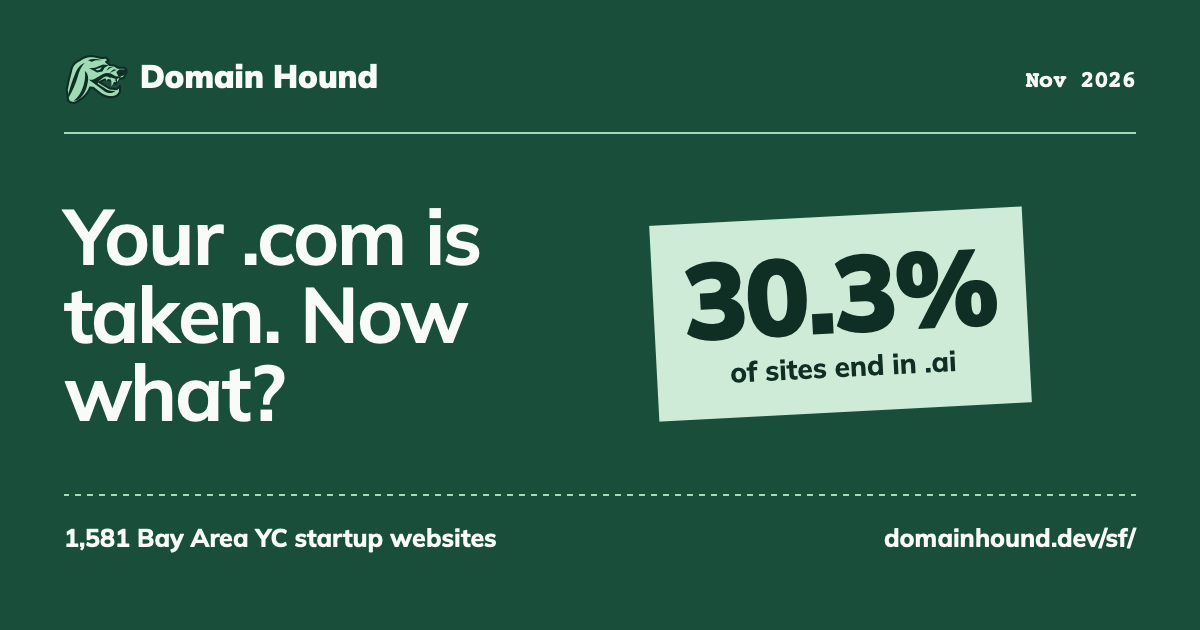
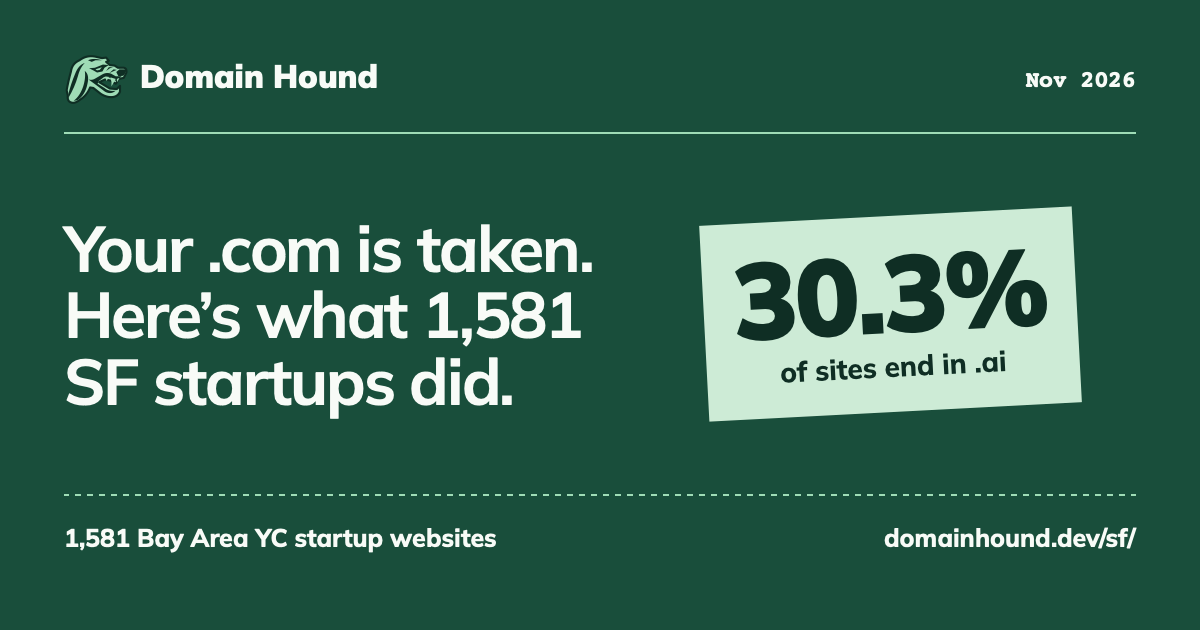
fix: use exact-name prices on the SF startup page

Changed region(s): [[0.0308, 0.3317, 0.4933, 0.6937], [0.5242, 0.3016, 0.925, 0.6937]]

diff --git a/sf/index.html b/sf/index.html
@@ -3,11 +3,11 @@
 <head>
   <meta charset="utf-8">
   <meta name="viewport" content="width=device-width, initial-scale=1">
-  <title>Your .com is taken. Now what? | Domain Hound</title>
+  <title>Your .com is taken. Here’s what 1,581 SF startups did.</title>
   <meta name="description" content="30.3% of 1,581 Bay Area YC startup websites use .ai.">
   <meta property="og:type" content="article">
   <meta property="og:site_name" content="Domain Hound">
-  <meta property="og:title" content="Your .com is taken. Now what?">
+  <meta property="og:title" content="Your .com is taken. Here’s what 1,581 SF startups did.">
   <meta property="og:description" content="30.3% of 1,581 Bay Area YC startup websites use .ai.">
   <meta property="og:image" content="https://domainhound.dev/sf/share.png">
   <meta property="og:image:width" content="1200">
@@ -33,8 +33,7 @@
 <main>
   <section class="intro"><div class="frame spread">
     <div><p class="eyebrow">San Francisco Bay Area &nbsp;/&nbsp; 2023 to 2026</p>
-    <h1>Your .com is taken.<br>Now what?</h1>
-    <p class="lede">See what 1,581 Y Combinator startups picked.</p>
+    <h1>Your .com is taken.<br>Here’s what 1,581 SF startups did.</h1>
     <div id="check"><form class="name-check" hidden autocomplete="off">
     <label for="candidate">Name or domain <span>· Free check</span></label>
     <div class="field"><input id="candidate" type="text" maxlength="253" required placeholder="Your startup name" autocapitalize="none" spellcheck="false">
@@ -49,7 +48,7 @@
   </div></section>
   <section class="chart-band"><div class="frame">
     <h2>What did startups pick?</h2>
-    <p class="deck">Each bar is one YC batch. Pick one to see its endings.</p>
+    <p class="deck">Each bar is one Y Combinator batch. Pick one to see its endings.</p>
     <div class="legend"><span><i class="com"></i>.com</span><span><i class="ai"></i>.ai</span><span><i class="rest"></i>Other endings</span></div>
     <div class="plot">
       <div class="axis" aria-hidden="true"><span>100%</span><span>50%</span><span>0%</span></div>
@@ -112,34 +111,18 @@
     </details>
     <p class="chart-note">.com was the most common ending overall. Just 1 of 1,581 sites used .si, shown under “Other endings”.</p>
   </div></section>
-  <section class="facts-band pick-band"><div class="frame">
-    <h2>Which ending should you pick?</h2>
-    <p class="deck">We priced the same 3 names with each ending. These shops had the lowest bill over three years.</p>
+  <section class="facts-band pick-band" aria-labelledby="pick-title"><div class="frame">
+    <h2 id="pick-title">Which ending should you pick?</h2>
     <div class="cards pick-cards"><article><h3>.com</h3>
     <p>733 of 1,581 sites · 46.36%</p>
-    <dl><div><dt>First year</dt><dd>$9.68</dd></div>
-    <div><dt>Yearly renewal</dt><dd>$10.88</dd></div></dl>
-    <p class="shop">Spaceship</p>
-    <p>Get your exact name here if it’s available at the standard price.</p></article>
+    <p>Pick it if you can get your exact name.</p></article>
 <article><h3>.ai</h3>
     <p>479 of 1,581 sites · 30.3%</p>
-    <dl><div><dt>First year</dt><dd>$79.98</dd></div>
-    <div><dt>Yearly renewal</dt><dd>$79.98</dd></div></dl>
-    <p class="shop">Spaceship · Pay for 2 years at a time. $159.96 upfront.</p>
     <p>If you build AI, this ending says so before anyone clicks.</p></article>
 <article><h3>.si</h3>
     <p>1 of 1,581 sites · 0.06%</p>
-    <dl><div><dt>First year</dt><dd>$11.29</dd></div>
-    <div><dt>Yearly renewal</dt><dd>$11.29</dd></div></dl>
-    <p class="shop">Dynadot</p>
-    <p>Keep the name and a small renewal bill if you’re happy to spell out the ending.</p></article></div>
-    <p class="price-date">USD before tax · Domain Hound · November 27, 2026</p>
-    <p class="pick-rule"><strong>Start with your exact .com.</strong> If it’s taken, pick .ai for an AI business or .si to keep the name for less. Want the .com? Try adding a word.</p>
-    <p class="chart-note">To buy a taken .com, you deal with its owner. Prices vary.</p>
-    <details><summary>Where the prices come from</summary>
-      <p>Domain Hound checked 3 available names per ending on November 27, 2026. All 3 names got the same list price at each shop. We compared the payments due over three years, including renewals.</p>
-      <p><a href="https://www.spaceship.com/domains/gtld/com/">.com at Spaceship</a> · <a href="https://www.spaceship.com/domains/cctld/ai/">.ai at Spaceship</a> · <a href="https://www.dynadot.com/domain/prices?currency=usd">.si at Dynadot</a></p>
-    </details>
+    <p>Try this less familiar ending to keep your exact name.</p></article></div>
+    <p class="pick-rule">Price depends on your exact name. <a href="#check-yours">Check yours below.</a></p>
   </div></section>
   <div class="chart-band trend-band"><div class="frame">
     <section class="ai-trend" aria-labelledby="ai-trend-title">
@@ -495,7 +478,7 @@
     </details>
     <div class="foot-links"><a href="/data/sf/endings.json" download>Download the counts (JSON)</a><button id="share" hidden>Share this page</button><span id="share-status" role="status"></span></div>
   </div></section>
-  <section class="check-band"><div class="frame">
+  <section class="check-band" id="check-yours"><div class="frame">
     <h2>Which ending can you get?</h2>
     <form class="name-check" hidden autocomplete="off">
     <label for="closing-candidate">Name or domain <span>· Free check</span></label>

diff --git a/sf/page.css b/sf/page.css
@@ -10,7 +10,7 @@ header, .intro, .check-band { background: var(--forest); color: var(--paper); }
 .eyebrow { color: var(--mint); }
 h1 { font-size: clamp(2.6rem, 6.2vw, 5.55rem); max-width: none; font-weight: 850; line-height: .94; margin: .19em 0 .22em; letter-spacing: -.035em; text-wrap: initial; }
 h2 { font-size: clamp(2rem, 4vw, 3.5rem); letter-spacing: -.025em; font-weight: 850; }
-.lede, .deck { max-width: 40ch; font-size: clamp(1.05rem, 1.4vw, 1.28rem); }
+.deck { font-size: clamp(1.05rem, 1.4vw, 1.28rem); }
 .ticket { position: relative; background: var(--mint); color: var(--pine); padding: 1.2rem 1.55rem; transform: rotate(-2deg); width: min(100% - .5rem, 28rem); justify-self: center; }
 .ticket-top { border-bottom: 1px solid var(--forest); padding-bottom: .5rem; }
 .ticket-top b { font: 850 1.45rem/1 var(--mono); text-transform: lowercase; }
@@ -20,7 +20,7 @@ h2 { font-size: clamp(2rem, 4vw, 3.5rem); letter-spacing: -.025em; font-weight: 
 .ticket-foot { margin-top: 1rem; border-top: 2px dashed var(--forest); padding-top: .7rem; font-size: .72rem; }
 .chart-band, .facts-band, .method, .check-band { padding-block: clamp(2.5rem, 5vw, 4.8rem); }
 .chart-band { background: var(--paper); }
-.deck { margin-block: .65rem 1.25rem; max-width: none; }
+.deck { margin-block: .65rem 1.25rem; }
 .legend { display: flex; flex-wrap: wrap; gap: .6rem 1.3rem; }
 .legend span { display: inline-flex; align-items: center; gap: .4rem; }
 .legend i { width: .9rem; height: .9rem; border: 1px solid var(--pine); }
@@ -75,8 +75,9 @@ caption { font-weight: 850; }
 .field button { flex-shrink: 0; padding: .7em 1em; border: 0; border-left: 2px solid var(--pine); border-radius: 0; background: var(--leaf); color: var(--pine); font-weight: 900; }
 .check-status:not(:empty), .matches:not(:empty) { margin-top: 1rem; }
 .matches { list-style: none; padding: 0; max-width: 34rem; }
-.matches li { display: flex; justify-content: space-between; gap: .75rem; border-top: 1px solid var(--leaf); padding: .5em 0; }
+.matches li { display: grid; grid-template-columns: minmax(0, 1fr) auto; gap: .25rem .75rem; border-top: 1px solid var(--leaf); padding: .5em 0; }
 .matches b { overflow-wrap: anywhere; }
+.matches p { grid-column: 1 / -1; overflow-wrap: anywhere; }
 .method h2 { font-size: clamp(1.65rem, 3vw, 2.45rem); }
 .method p, details p { max-width: 66ch; margin-block: .7rem; }
 .foot-links { justify-content: flex-start; flex-wrap: wrap; border-top: 1px solid var(--pine); padding-top: 1rem; margin-top: .7rem; }
@@ -126,10 +127,6 @@ footer { background: var(--mint); color: var(--pine); padding-block: 1rem; }
 }
 
 .pick-cards h3 { font: 900 2.65rem/1.2 Mulish, sans-serif; letter-spacing: -.03em; }
-.pick-cards dl { margin: 1rem 0 .4rem; font-variant-numeric: tabular-nums; }
-.pick-cards dl div { display: flex; justify-content: space-between; gap: 1rem; border-bottom: 1px solid var(--forest); padding-block: .35rem; }
-.pick-cards dd { margin: 0; font-weight: 900; }
-.pick-cards .shop, .price-date { font: 600 .84rem/1.55 var(--mono); }
-.pick-cards .shop { margin-bottom: .8rem; }
+.pick-cards p + p { margin-top: .45rem; }
 .pick-rule { margin-top: 1.25rem; max-width: 64ch; }
 .name-check label span { color: var(--mint); }

diff --git a/scripts/sf/artifact.py b/scripts/sf/artifact.py
@@ -31,8 +31,8 @@ def portable_script():
     row.company.normalize('NFKC').toLowerCase() === query ||
     row.domain === query || row.domain.slice(0, -row.ending.length) === query
   ).map(row => row.domain));
-  return { items: [...domains].map(domain => ({ domain, status: 'taken' })) };""")
-    chart = replace_once(chart, "taken: 'Taken'", "taken: 'Listed in the snapshot'")
+  return { items: [...domains].map(domain => ({ domain, status: 'listed' })) };""")
+    chart = replace_once(chart, "taken: 'Taken'", "listed: 'Listed in the snapshot'")
     chart = replace_once(chart, "'Domain check results' : 'No endings confirmed. Try another name.'",
                          "'Snapshot matches' : 'No matching name or domain in this snapshot.'")
     chart = replace_once(chart, "new URL('/sf/', location.origin)", "new URL('./index.html', location.href)")
@@ -57,7 +57,7 @@ def portable_script():
 def package(output):
     files = ["assets/home.css", "assets/palette.css", "assets/mulish-latin-wght-normal.woff2",
              "assets/OFL.txt", "assets/hound-mark.svg", "sf/page.css", "sf/share.png",
-             "data/sf/endings.json", "data/sf/companies.json", "data/sf/prices.json"]
+             "data/sf/endings.json", "data/sf/companies.json"]
     for file in files:
         target = output / file
         target.parent.mkdir(exist_ok=True, parents=True)
@@ -83,6 +83,8 @@ def package(output):
     html = html.replace('Turn on JavaScript to check a name.',
                         'Turn on JavaScript to look up a name in this snapshot.')
     html = replace_once(html, 'Which ending can you get?', 'Is your name in the snapshot?')
+    html = replace_once(html, 'Price depends on your exact name. <a href="#check-yours">Check yours below.</a>',
+                        '<a href="#check-yours">Look up your name in this snapshot.</a>')
     (output / "index.html").write_text(html)
     (output / "sf/page.js").write_text(portable_script())
 
